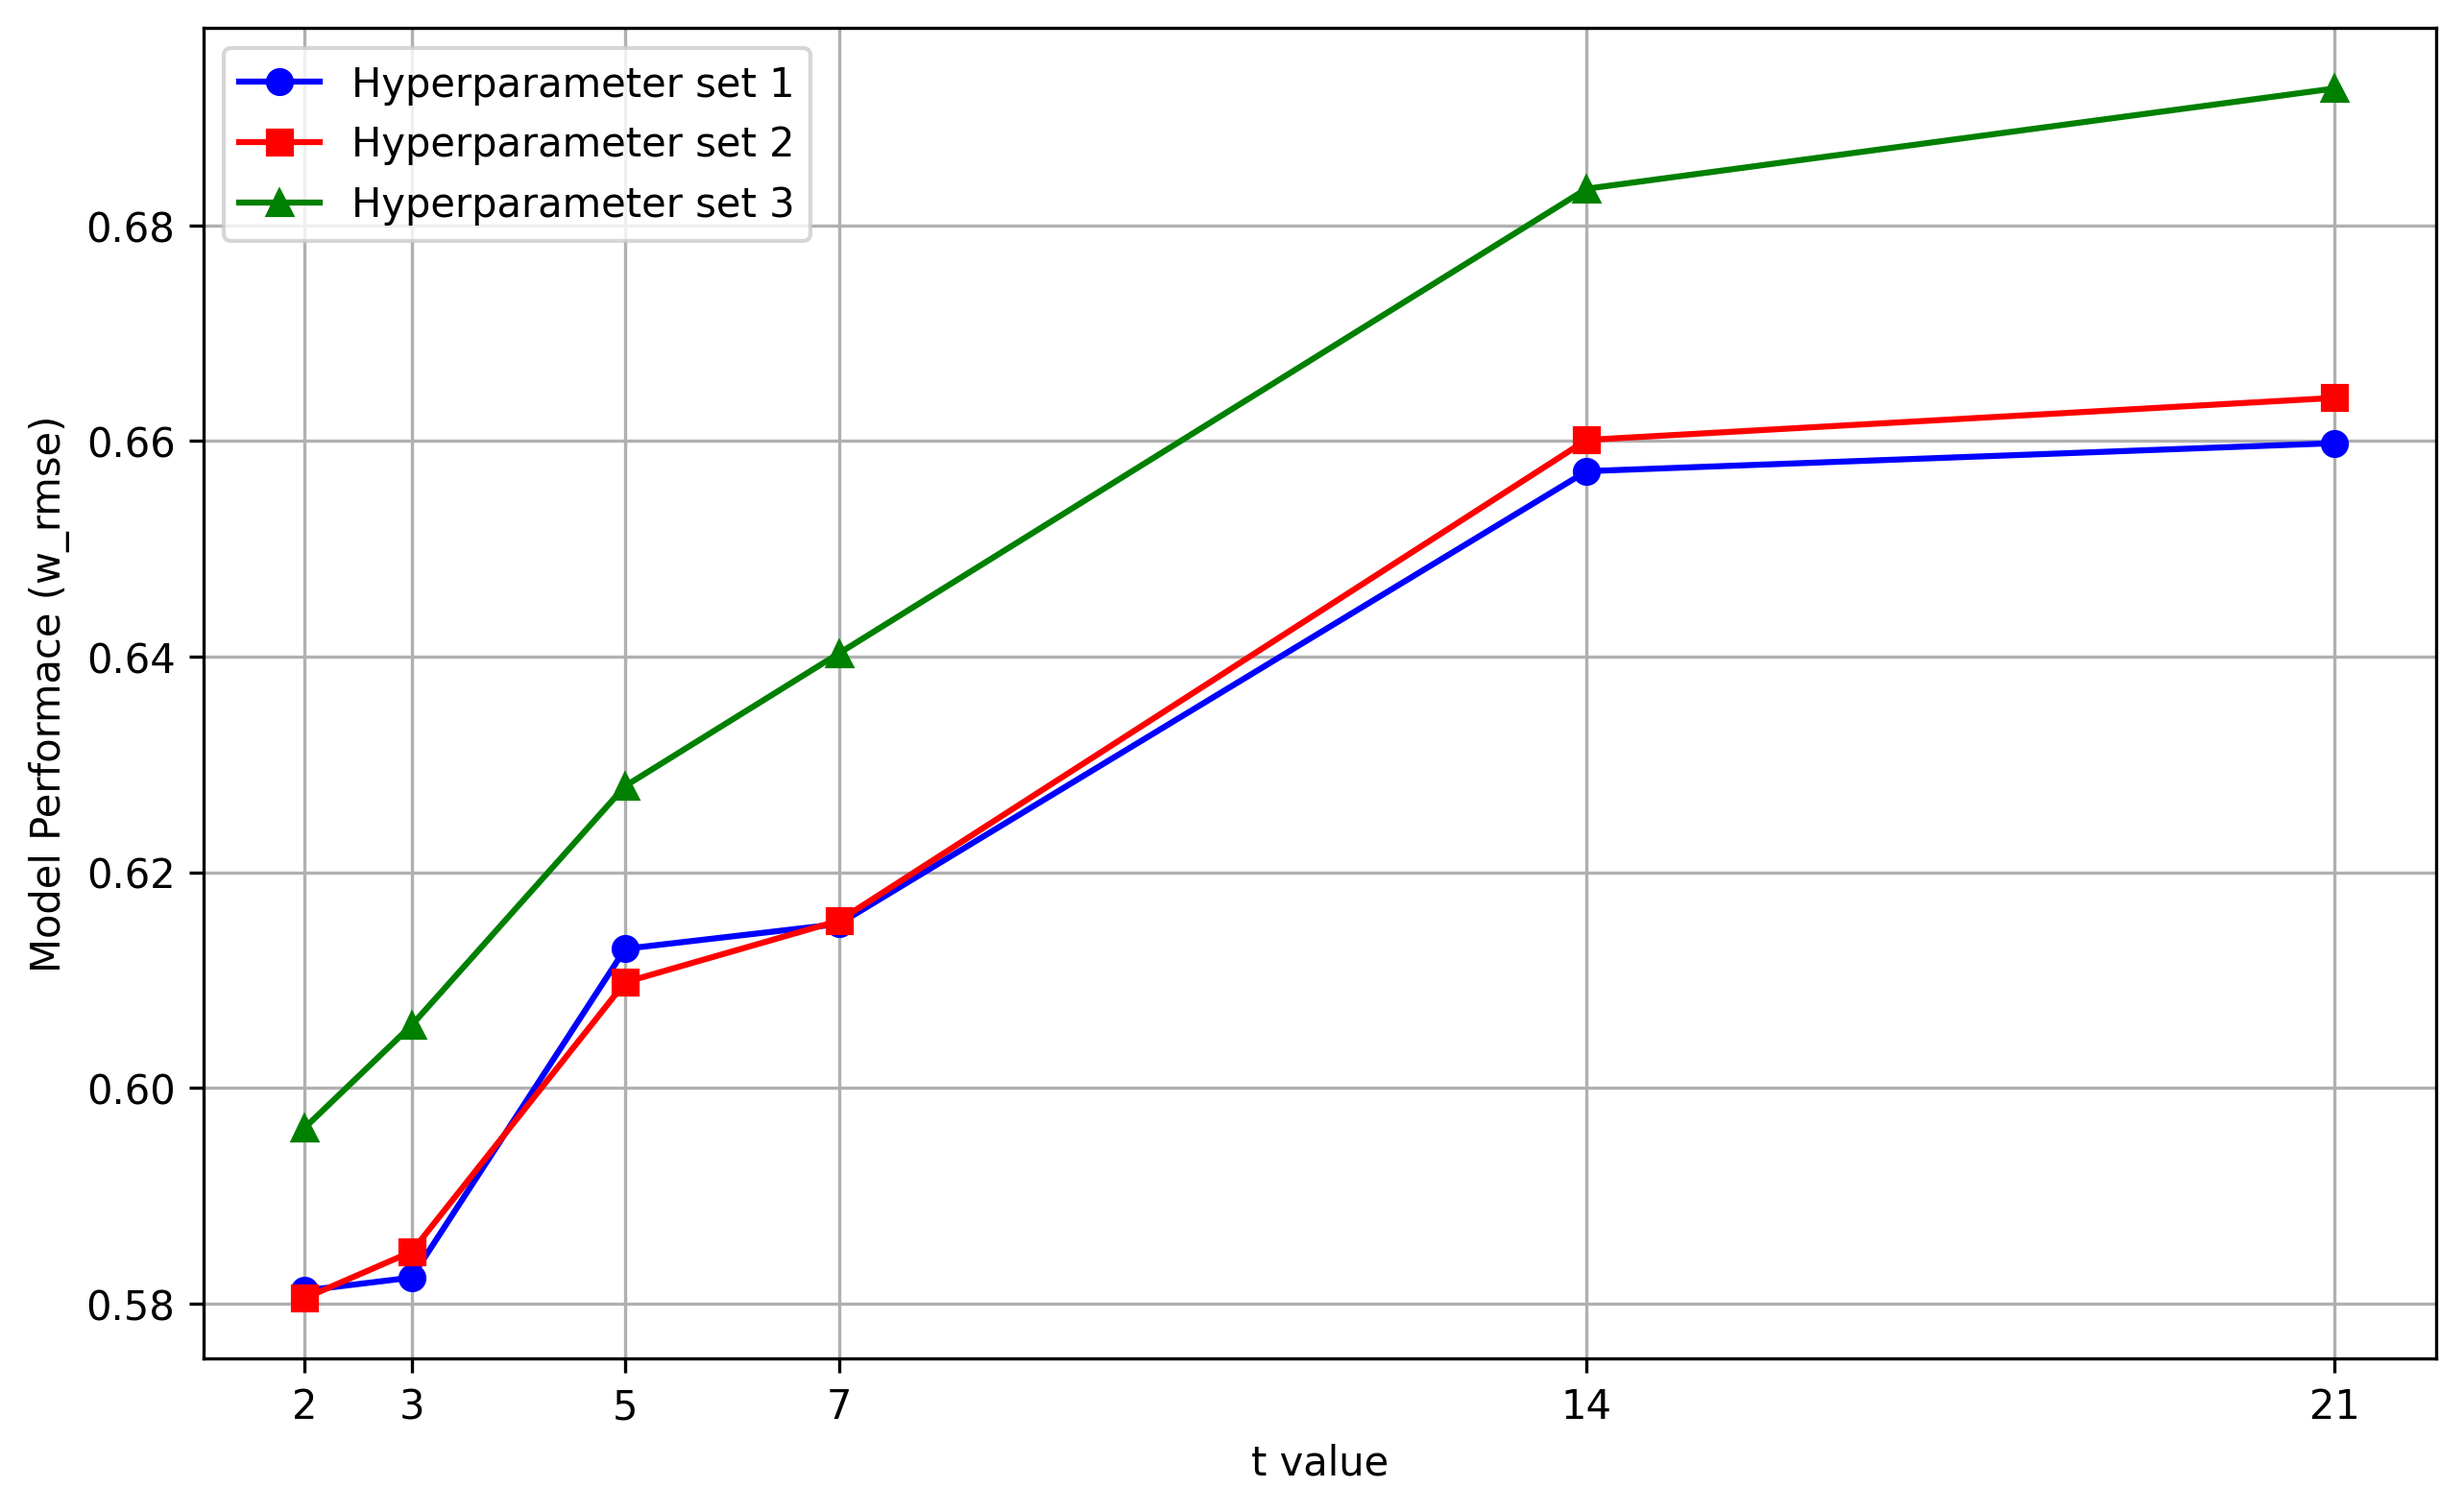
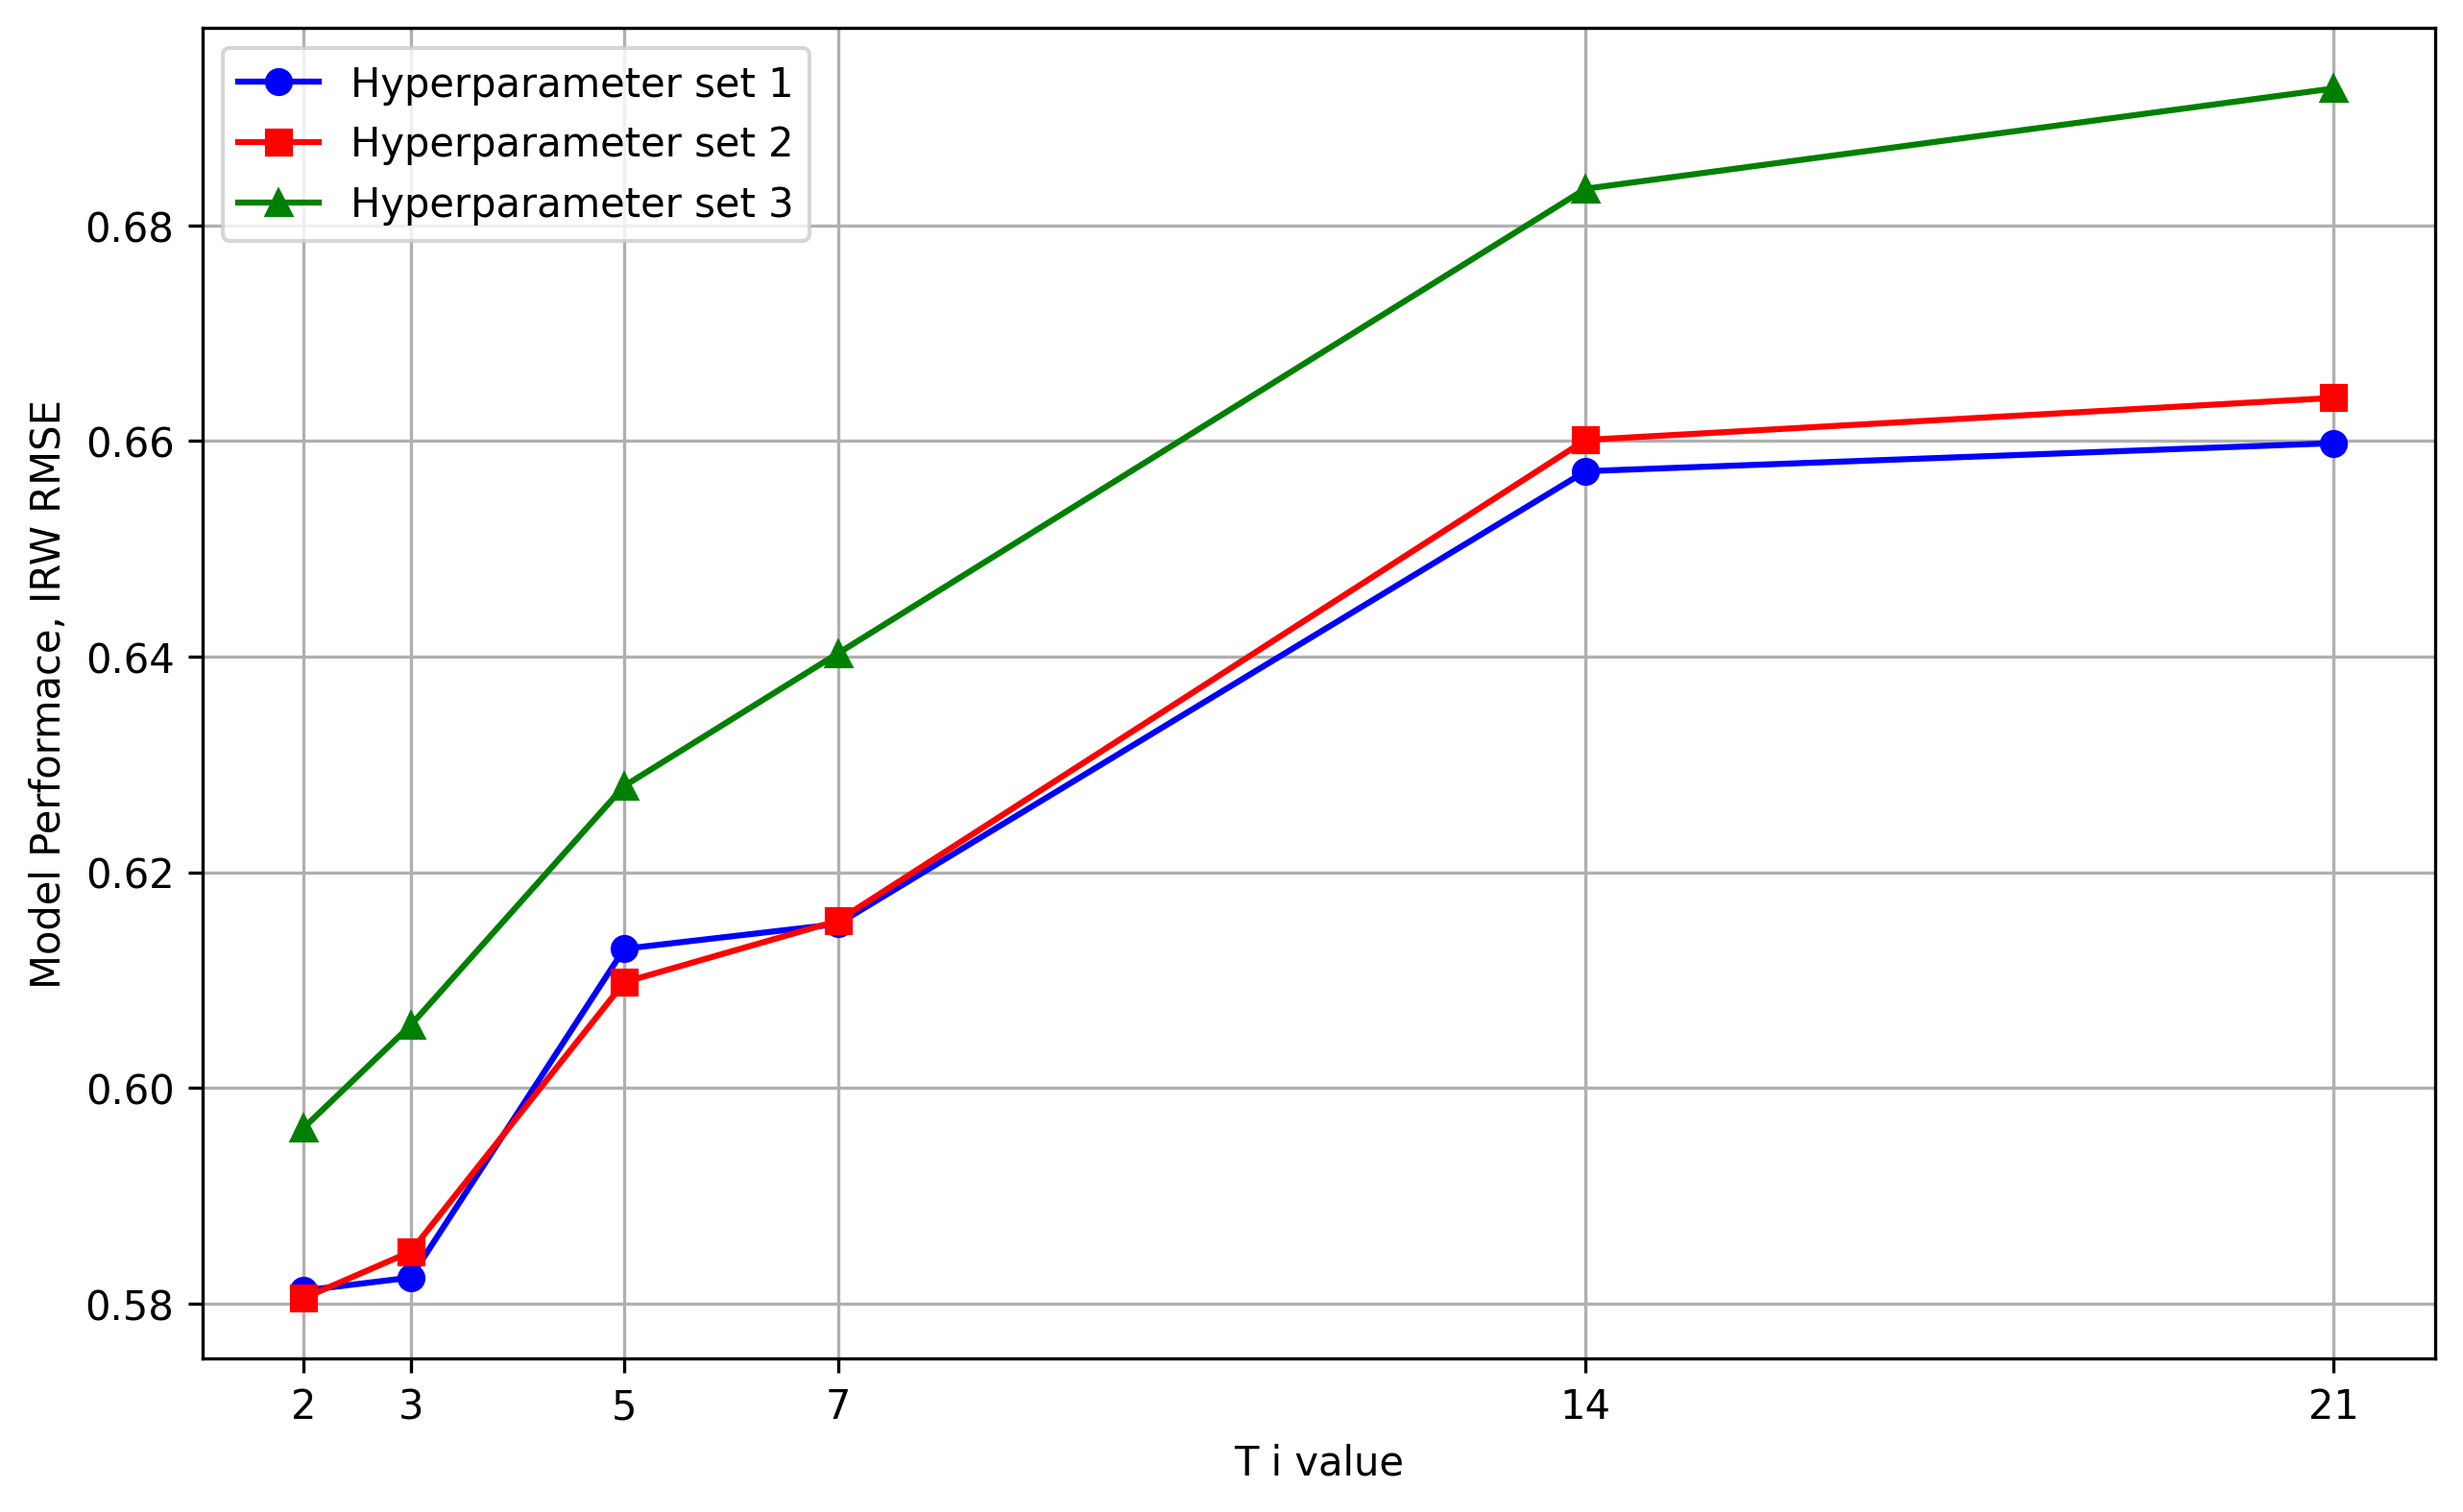
Testing inference

diff --git a/graphing.py b/graphing.py
@@ -2,57 +2,57 @@ import matplotlib.pyplot as plt
 import numpy as np
 
 
-# # Example data
-# x = [2, 3, 5, 7, 14, 21]
-# y1 = [0.5812, 0.5824, 0.6129, 0.6152, 0.6572, 0.6598]                      # Line 1: y = x
-# y2 = [0.5805, 0.5848, 0.6098, 0.6155, 0.6601, 0.6640]                   # Line 2: y = x^2
-# y3 = [0.5963, 0.6058, 0.6280, 0.6403, 0.6834, 0.6927]                 # Line 3: y = √x
+# Example data
+x = [2, 3, 5, 7, 14, 21]
+y1 = [0.5812, 0.5824, 0.6129, 0.6152, 0.6572, 0.6598]                      # Line 1: y = x
+y2 = [0.5805, 0.5848, 0.6098, 0.6155, 0.6601, 0.6640]                   # Line 2: y = x^2
+y3 = [0.5963, 0.6058, 0.6280, 0.6403, 0.6834, 0.6927]                 # Line 3: y = √x
 
-# # Create the plot
-# plt.figure(figsize=(10, 6))
-# plt.plot(x, y1, label='Hyperparameter set 1', marker='o', color='blue', markerfacecolor='blue', markeredgecolor='blue')
-# plt.plot(x, y2, label='Hyperparameter set 2', marker='s', color='red', markerfacecolor='red', markeredgecolor='red')
-# plt.plot(x, y3, label='Hyperparameter set 3', marker='^', color='green', markerfacecolor='green', markeredgecolor='green')
+# Create the plot
+plt.figure(figsize=(10, 6))
+plt.plot(x, y1, label='Hyperparameter set 1', marker='o', color='blue', markerfacecolor='blue', markeredgecolor='blue')
+plt.plot(x, y2, label='Hyperparameter set 2', marker='s', color='red', markerfacecolor='red', markeredgecolor='red')
+plt.plot(x, y3, label='Hyperparameter set 3', marker='^', color='green', markerfacecolor='green', markeredgecolor='green')
 
-# # Add labels, legend, and title
-# plt.xlabel('t value')
-# plt.xticks(x)
-# plt.ylabel('Model Performace (w_rmse)')
-# # plt.title('Three Series on the Same Plot')
-# plt.legend()
-# plt.grid(True)
+# Add labels, legend, and title
+plt.xlabel('T i value')
+plt.xticks(x)
+plt.ylabel('Model Performace, IRW RMSE')
+# plt.title('Three Series on the Same Plot')
+plt.legend()
+plt.grid(True)
 
-# # Save the figure
-# plt.savefig('tvperf.png', dpi=300, bbox_inches='tight')
+# Save the figure
+plt.savefig('tvperf.png', dpi=300, bbox_inches='tight')
 
-# # Optionally show the plot
-# plt.show()
+# Optionally show the plot
+plt.show()
 
 
 # ________________________________________________
 
-# Example data
-# x = [10, 20, 30, 50, 70, 71, 73, 75, 85, 100]
-# y1 = [96.08468, 91.83526, 89.63392, 89.29365, 88.546097, 94.23267, 94.661125, 96.470657, 95.491066, 94.857666]
-x = [20, 30, 50, 70, 71, 73, 75, 85]
-y1 = [91.83526, 89.63392, 89.29365, 88.546097, 94.23267, 94.661125, 96.470657, 95.491066]
+# # Example data
+# # x = [10, 20, 30, 50, 70, 71, 73, 75, 85, 100]
+# # y1 = [96.08468, 91.83526, 89.63392, 89.29365, 88.546097, 94.23267, 94.661125, 96.470657, 95.491066, 94.857666]
+# x = [20, 30, 50, 70, 71, 73, 75, 85]
+# y1 = [91.83526, 89.63392, 89.29365, 88.546097, 94.23267, 94.661125, 96.470657, 95.491066]
 
 
-# Create the plot
-plt.figure(figsize=(10, 6))
-plt.plot(x, y1, marker='o', color='blue', markerfacecolor='blue', markeredgecolor='blue')
+# # Create the plot
+# plt.figure(figsize=(10, 6))
+# plt.plot(x, y1, marker='o', color='blue', markerfacecolor='blue', markeredgecolor='blue')
 
 
-# Add labels, legend, and title
-plt.xlabel('Training epochs')
-plt.xticks(x)
-plt.ylabel('Model Performace (w_rmse)')
-# plt.title('Three Series on the Same Plot')
-# plt.legend()
-plt.grid(True)
+# # Add labels, legend, and title
+# plt.xlabel('Training epochs')
+# plt.xticks(x)
+# plt.ylabel('Model Performace (w_rmse)')
+# # plt.title('Three Series on the Same Plot')
+# # plt.legend()
+# plt.grid(True)
 
-# Save the figure
-# plt.savefig('epochs.png', dpi=300, bbox_inches='tight')
+# # Save the figure
+# # plt.savefig('epochs.png', dpi=300, bbox_inches='tight')
 
-# Optionally show the plot
-plt.show()
+# # Optionally show the plot
+# plt.show()
